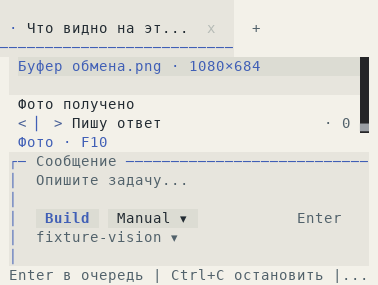
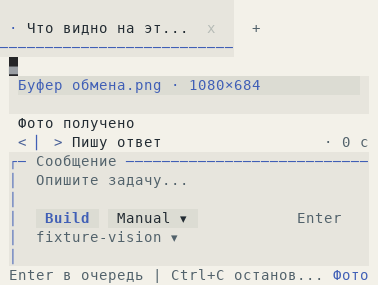
Сохранить компоновку главной с кнопкой фото

diff --git a/src/ui/opentui-composer.tsx b/src/ui/opentui-composer.tsx
@@ -5,6 +5,7 @@ import type React from "react";
 import type { CommandDescriptor } from "../commands/slash.js";
 import type { Palette } from "./appearance.js";
 import { UiPaneRegion, UiSurface } from "./opentui-composition.js";
+import { AddPhotoButton } from "./opentui-photos.js";
 import { OpenTuiPrompt } from "./opentui-prompt.js";
 import { terminalLine } from "./terminal-text.js";
 import type { TuiViewState } from "./tui-controller.js";
@@ -24,6 +25,7 @@ export function OpenTuiComposer({
   editorFocused,
   draft,
   photoControls,
+  onAddPhoto,
   view,
   onToggleMode,
   openPermissions,
@@ -51,6 +53,7 @@ export function OpenTuiComposer({
   editorFocused: boolean;
   draft: string;
   photoControls?: React.ReactNode;
+  onAddPhoto?: () => void;
   view: TuiViewState;
   onToggleMode(): void;
   openPermissions(): void;
@@ -64,6 +67,10 @@ export function OpenTuiComposer({
   defaultModel?: string;
   canCancel: boolean;
 }) {
+  const photoAction = composerWidth >= 22 ? onAddPhoto : undefined;
+  const compactPhotoAction = composerWidth < 48;
+  const hintWidth =
+    composerWidth - (photoAction ? (compactPhotoAction ? 5 : 11) : 0);
   const composer = (
     <UiSurface name="Composer" preserveNative>
       <UiSurface name="AbovePrompt" />
@@ -136,25 +143,32 @@ export function OpenTuiComposer({
           />
         </OpenTuiPrompt>
         <UiSurface name="StatusLine">
-          <box height={1} flexDirection="row" flexShrink={0}>
+          <box height={1} flexDirection="row" flexShrink={0} gap={1}>
             <UiSurface name="PromptHints">
-              <text fg={palette.muted} height={1} width={composerWidth}>
+              <text fg={palette.muted} height={1} width={hintWidth}>
                 {terminalLine(
                   !home && height < 10
                     ? `${view.agentMode === "plan" ? "Plan" : "Build"} | F4 | Enter`
                     : view.busy && canCancel
                       ? "Enter в очередь | Ctrl+C остановить | Ctrl+Tab вкладки"
-                      : composerWidth >= 77
+                      : hintWidth >= 77
                         ? "Enter отправить | Shift+Enter строка | Shift+Tab режим | F4 разрешения"
-                        : composerWidth >= 45
+                        : hintWidth >= 45
                           ? "Enter отправить | Shift+Tab режим | F4 разрешения"
-                          : composerWidth >= 30
+                          : hintWidth >= 30
                             ? "Shift+Tab режим · F4"
                             : "Enter · F4 доступ",
-                  composerWidth,
+                  hintWidth,
                 )}
               </text>
             </UiSurface>
+            {photoAction && (
+              <AddPhotoButton
+                compact={compactPhotoAction}
+                palette={palette}
+                onPress={photoAction}
+              />
+            )}
           </box>
         </UiSurface>
       </box>

diff --git a/src/ui/opentui-photos.tsx b/src/ui/opentui-photos.tsx
@@ -215,6 +215,25 @@ function PhotoButton({
   );
 }
 
+export function AddPhotoButton({
+  compact,
+  palette,
+  onPress,
+}: {
+  compact: boolean;
+  palette: Palette;
+  onPress(): void;
+}) {
+  return (
+    <PhotoButton
+      id="photo-attach"
+      label={compact ? "Фото" : "Фото · F10"}
+      palette={palette}
+      onPress={onPress}
+    />
+  );
+}
+
 export function DraftPhotos({
   images,
   width,
@@ -222,7 +241,6 @@ export function DraftPhotos({
   palette,
   pending,
   error,
-  onAdd,
   onOpen,
   onRemove,
 }: {
@@ -232,29 +250,25 @@ export function DraftPhotos({
   palette: Palette;
   pending: boolean;
   error?: string;
-  onAdd(): void;
   onOpen(index: number): void;
   onRemove(id: string): void;
 }) {
   const graphics = usePhotoGraphics();
+  if (!images.length && !pending && !error) return null;
   const compact = width < 54 || height < 20;
   const shown = compact
     ? 0
     : Math.min(images.length, Math.max(1, Math.floor((width - 3) / 23)));
   return (
     <box flexDirection="column" width="100%" flexShrink={0}>
-      <box flexDirection="row" height={1} gap={2} paddingLeft={1}>
-        <PhotoButton
-          id="photo-attach"
-          label={terminalLine("Фото · F10", width - 1)}
-          palette={palette}
-          onPress={onAdd}
-        />
-        {images.length > 0 && width >= 22 && (
-          <text fg={palette.muted}>{`${images.length} прикреплено`}</text>
-        )}
-        {pending && width >= 36 && <text fg={palette.muted}>Читаю фото…</text>}
-      </box>
+      {(images.length > 0 || pending) && (
+        <text fg={palette.muted} height={1} paddingLeft={1}>
+          {terminalLine(
+            pending ? "Читаю фото…" : `${images.length} прикреплено`,
+            Math.max(1, width - 1),
+          )}
+        </text>
+      )}
       {shown > 0 && (
         <box flexDirection="row" gap={1} paddingLeft={1} marginBottom={1}>
           {images.slice(0, shown).map((image, index) => (

diff --git a/src/ui/opentui-spike.tsx b/src/ui/opentui-spike.tsx
@@ -2494,6 +2494,7 @@ function OpenTuiScreen({
         !uiFocus
       }
       draft={draft}
+      onAddPhoto={onSubmitPhotos ? showPhotos : undefined}
       photoControls={
         onSubmitPhotos && (
           <DraftPhotos
@@ -2503,7 +2504,6 @@ function OpenTuiScreen({
             palette={palette}
             pending={photoPending}
             error={photos ? undefined : photoError}
-            onAdd={showPhotos}
             onOpen={(index) => setPhotos({ index })}
             onRemove={removePhoto}
           />
